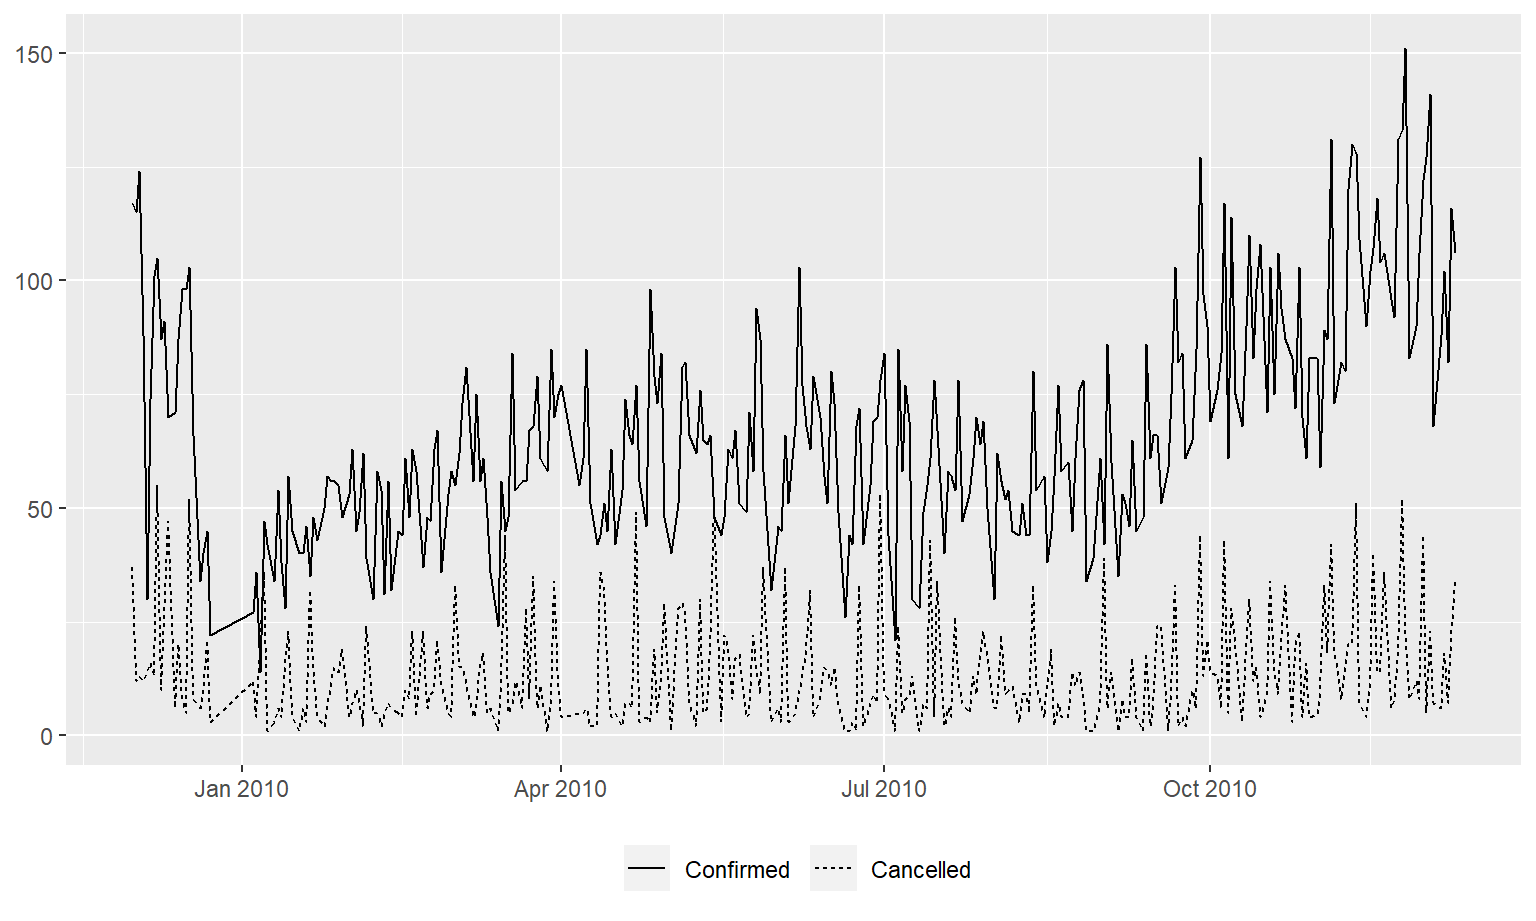
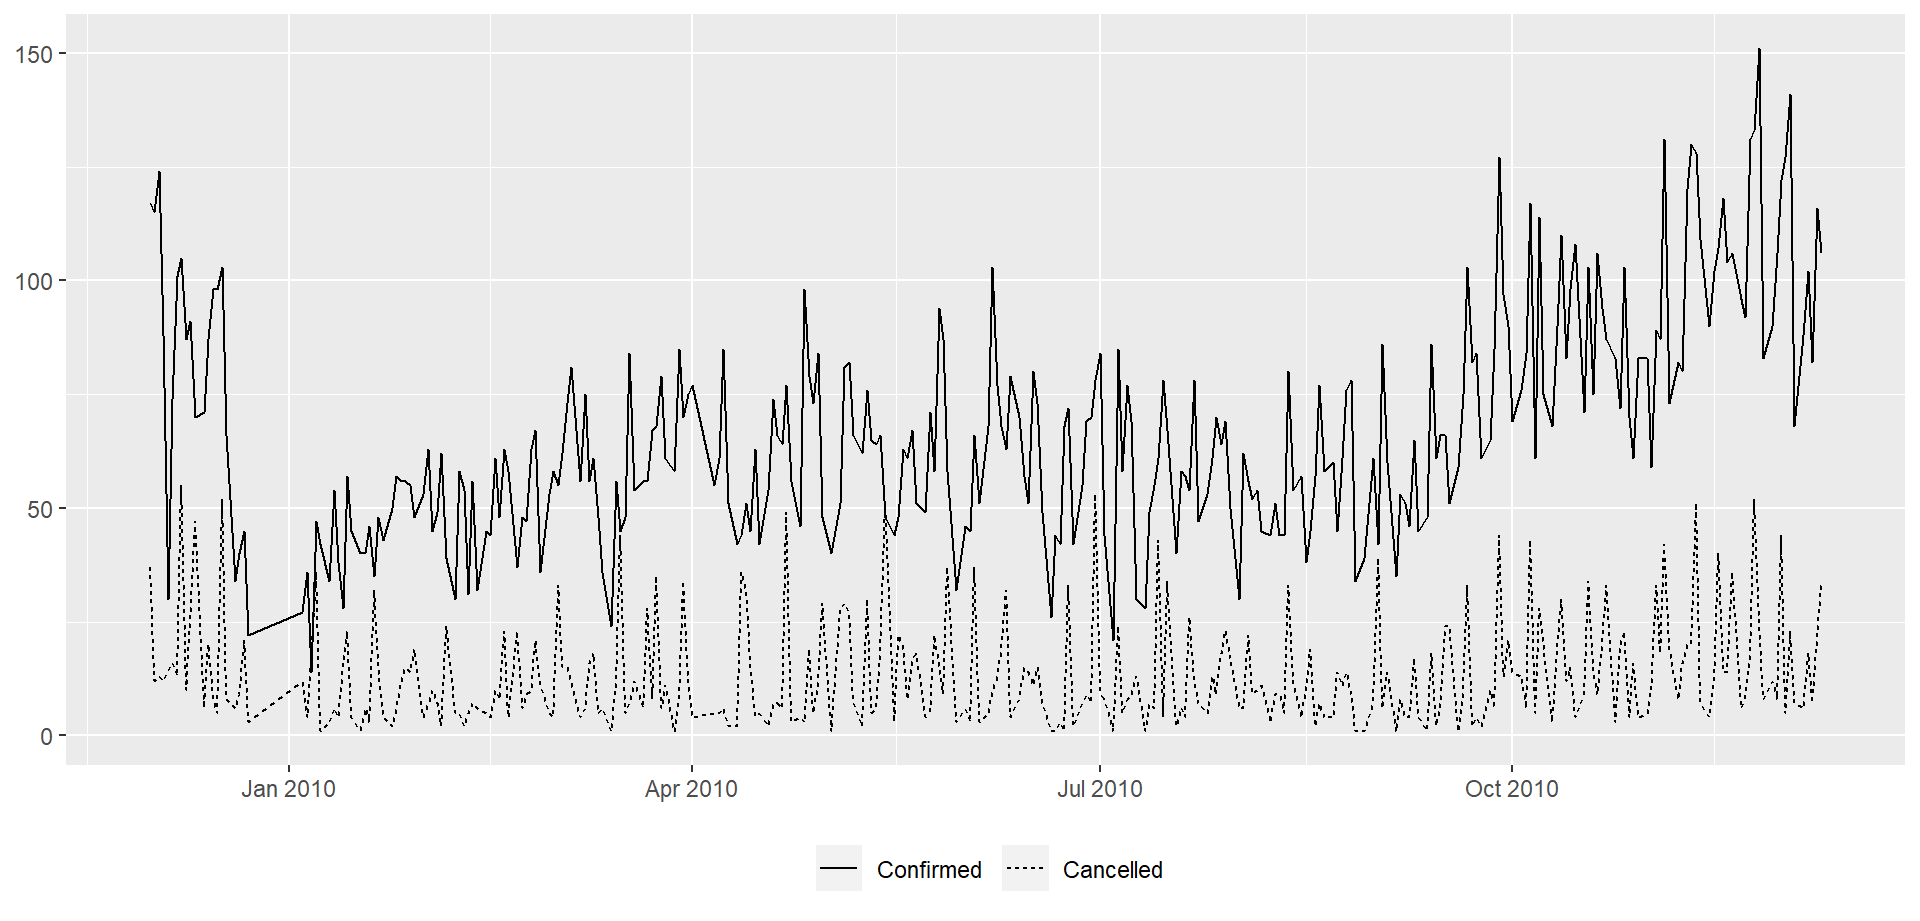
enlarged graph

diff --git a/docs/Data_Presentation.html b/docs/Data_Presentation.html
@@ -1903,10 +1903,10 @@ window.FlexDashboardComponents.push({
 <div id="number-of-invoices-per-day-differentiating-by-status"
 class="section level3" data-width="600">
 <h3>Number of Invoices per Day, differentiating by Status</h3>
-<div class="knitr-options" data-fig-width="768" data-fig-height="460">
+<div class="knitr-options" data-fig-width="960" data-fig-height="460">
 
 </div>
-<p><img src="Data_Presentation_files/figure-html/unnamed-chunk-6-1.png" width="768" data-figure-id=fig1 /></p>
+<p><img src="Data_Presentation_files/figure-html/unnamed-chunk-6-1.png" width="960" data-figure-id=fig1 /></p>
 </div>
 <div id="distribution-of-customers-around-the-world"
 class="section level3" data-width="400">
